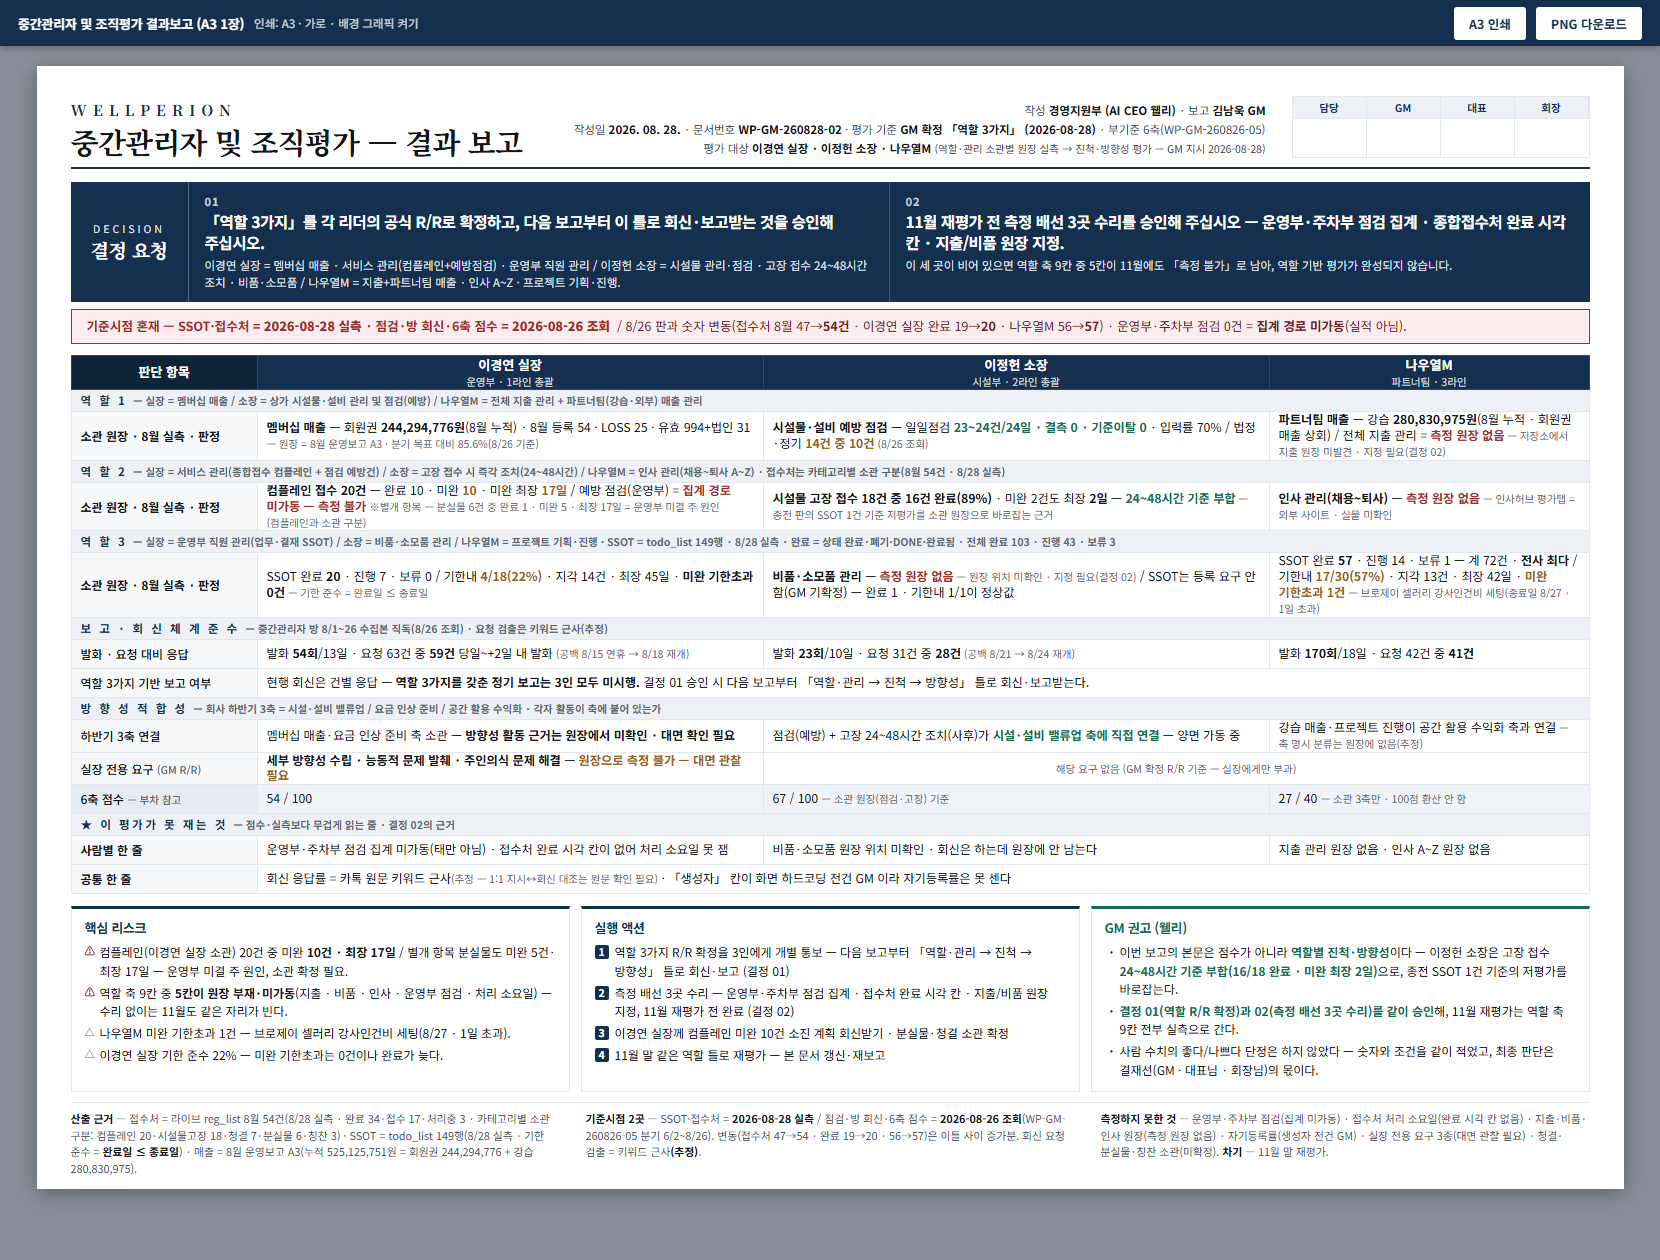
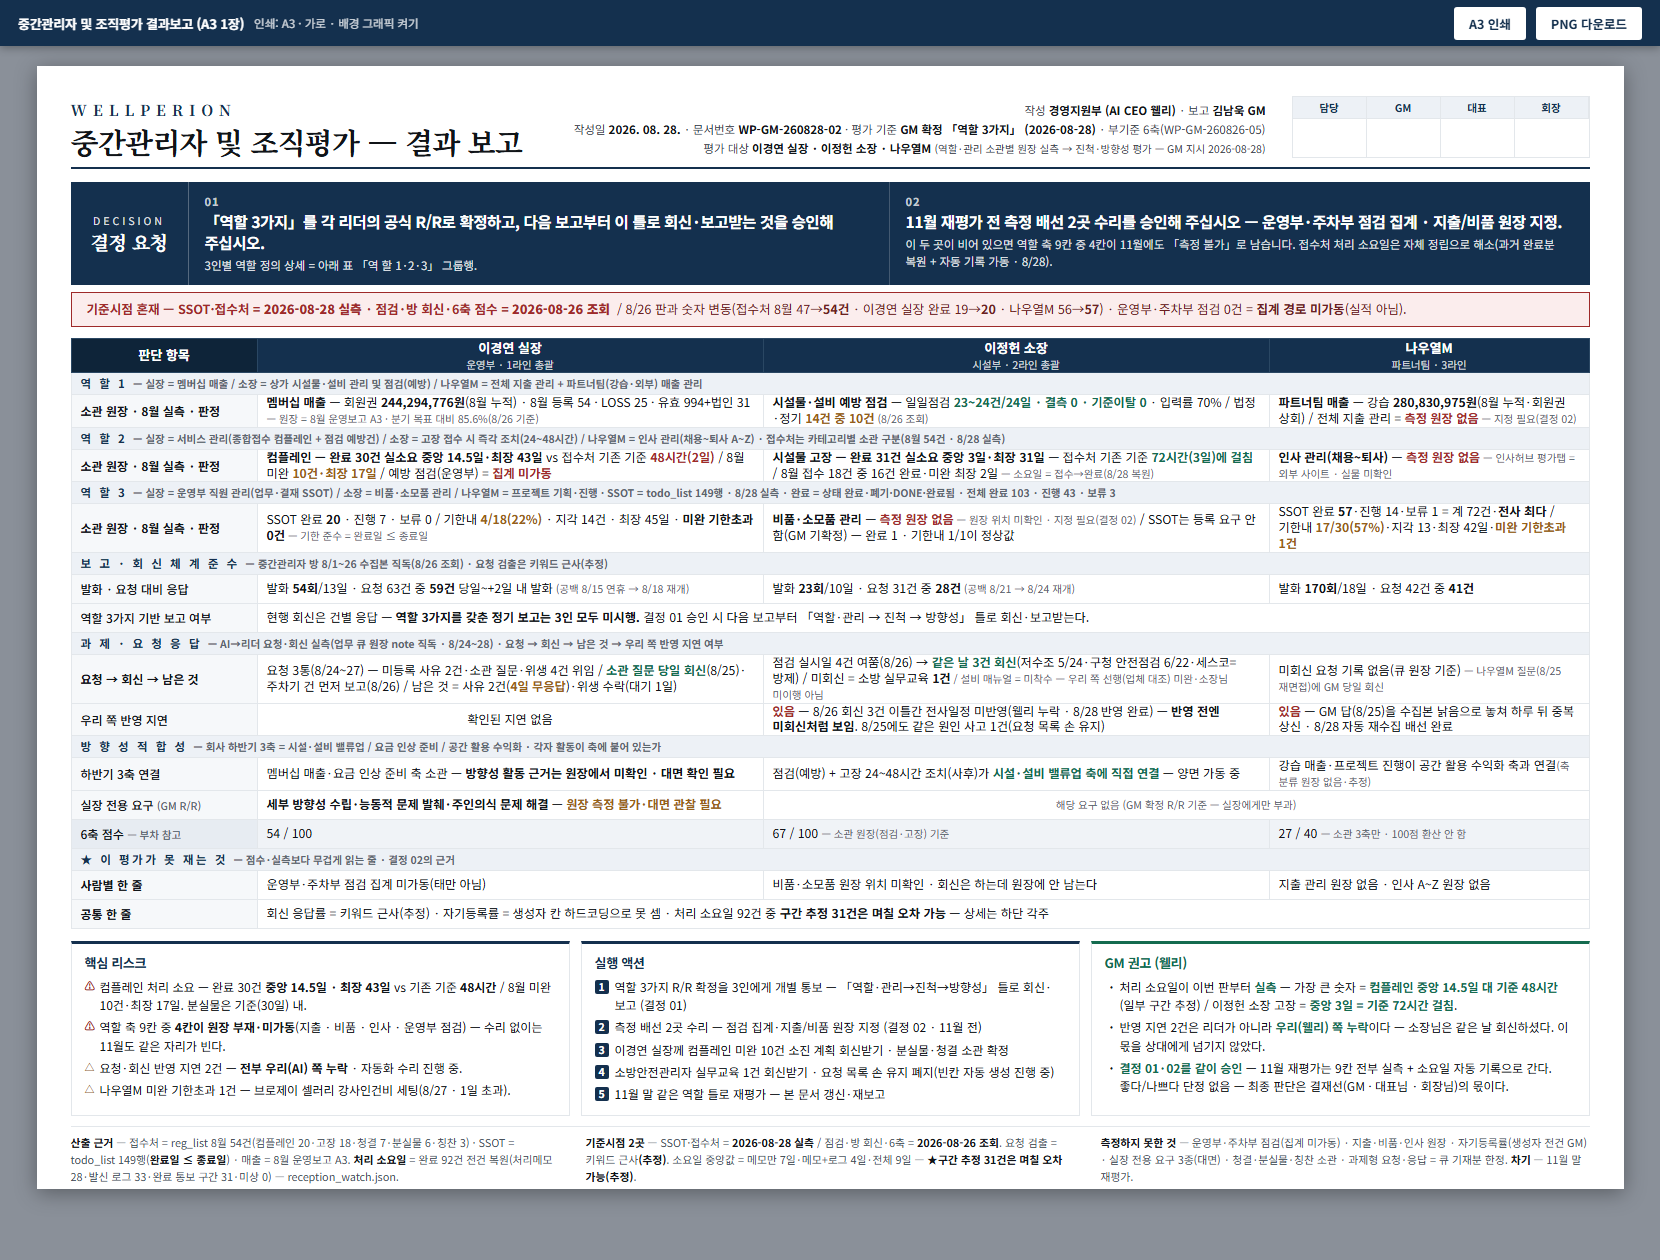
docs(ceo): 리더 평가에 처리 소요일 실측·과제 응답 축 반영 (GM 지시 2026-08-28)

Changed region(s): [[0.0307, 0.1548, 0.9524, 0.9595]]

diff --git a/3. 웰페리온 가이드/reports/260828_중간관리자_조직평가_결과보고_A3.html b/3. 웰페리온 가이드/reports/260828_중간관리자_조직평가_결과보고_A3.html
@@ -150,12 +150,12 @@
       <div class="it">
         <div class="n">01</div>
         <div class="q">「역할 3가지」를 각 리더의 공식 R/R로 확정하고, 다음 보고부터 이 틀로 회신·보고받는 것을 승인해 주십시오.</div>
-        <div class="d">이경연 실장 = 멤버십 매출 · 서비스 관리(컴플레인+예방점검) · 운영부 직원 관리 / 이정헌 소장 = 시설물 관리·점검 · 고장 접수 24~48시간 조치 · 비품·소모품 / 나우열M = 지출+파트너팀 매출 · 인사 A~Z · 프로젝트 기획·진행.</div>
+        <div class="d">3인별 역할 정의 상세 = 아래 표 「역 할 1·2·3」 그룹행.</div>
       </div>
       <div class="it">
         <div class="n">02</div>
-        <div class="q">11월 재평가 전 측정 배선 3곳 수리를 승인해 주십시오 — 운영부·주차부 점검 집계 · 종합접수처 완료 시각 칸 · 지출/비품 원장 지정.</div>
-        <div class="d">이 세 곳이 비어 있으면 역할 축 9칸 중 5칸이 11월에도 「측정 불가」로 남아, 역할 기반 평가가 완성되지 않습니다.</div>
+        <div class="q">11월 재평가 전 측정 배선 2곳 수리를 승인해 주십시오 — 운영부·주차부 점검 집계 · 지출/비품 원장 지정.</div>
+        <div class="d">이 두 곳이 비어 있으면 역할 축 9칸 중 4칸이 11월에도 「측정 불가」로 남습니다. 접수처 처리 소요일은 자체 정립으로 해소(과거 완료분 복원 + 자동 기록 가동 · 8/28).</div>
       </div>
     </div>
   </div>
@@ -183,19 +183,19 @@
       <tr><td class="k strong">소관 원장 · 8월 실측 · 판정</td>
         <td><b>멤버십 매출</b> — 회원권 <b>244,294,776원</b>(8월 누적) · 8월 등록 54 · LOSS 25 · 유효 994+법인 31<span class="est"> — 원장 = 8월 운영보고 A3 · 분기 목표 대비 85.6%(8/26 기준)</span></td>
         <td><b>시설물·설비 예방 점검</b> — 일일점검 <b class="good">23~24건/24일 · 결측 0 · 기준이탈 0</b> · 입력률 70% / 법정·정기 <b class="warn">14건 중 10건</b><span class="est"> (8/26 조회)</span></td>
-        <td><b>파트너팀 매출</b> — 강습 <b>280,830,975원</b>(8월 누적 · 회원권 매출 상회) / 전체 지출 관리 = <b class="bad">측정 원장 없음</b><span class="est"> — 저장소에서 지출 원장 미발견 · 지정 필요(결정 02)</span></td></tr>
+        <td><b>파트너팀 매출</b> — 강습 <b>280,830,975원</b>(8월 누적·회원권 상회) / 전체 지출 관리 = <b class="bad">측정 원장 없음</b><span class="est"> — 지정 필요(결정 02)</span></td></tr>
 
       <tr class="grp"><td colspan="4">역 할 2 <span style="letter-spacing:0" class="est">— 실장 = 서비스 관리(종합접수 컴플레인 + 점검 예방건) / 소장 = 고장 접수 시 즉각 조치(24~48시간) / 나우열M = 인사 관리(채용~퇴사 A~Z) · 접수처는 카테고리별 소관 구분(8월 54건 · 8/28 실측)</span></td></tr>
       <tr><td class="k strong">소관 원장 · 8월 실측 · 판정</td>
-        <td><b>컴플레인 접수 20건</b> — 완료 10 · 미완 <b class="warn">10</b> · 미완 최장 <b class="warn">17일</b> / 예방 점검(운영부) = <b class="bad">집계 경로 미가동 — 측정 불가</b><span class="est"> ※별개 항목 — 분실물 6건 중 완료 1 · 미완 5 · 최장 17일 = 운영부 미결 주 원인(컴플레인과 소관 구분)</span></td>
-        <td><b>시설물 고장 접수 18건 중 16건 완료(89%)</b> · 미완 2건도 최장 <b>2일</b> — <b class="good">24~48시간 기준 부합</b><span class="est"> — 종전 판의 SSOT 1건 기준 저평가를 소관 원장으로 바로잡는 근거</span></td>
+        <td><b>컴플레인 — 완료 30건 실소요 중앙 14.5일·최장 43일</b> vs 접수처 기존 기준 <b class="bad">48시간(2일)</b> / 8월 미완 <b class="warn">10건·최장 17일</b> / 예방 점검(운영부) = <b class="bad">집계 미가동</b></td>
+        <td><b>시설물 고장 — 완료 31건 실소요 중앙 3일·최장 31일</b> — 접수처 기존 기준 <b class="good">72시간(3일)에 걸침</b> / 8월 접수 18건 중 16건 완료·미완 최장 2일<span class="est"> — 소요일 = 접수→완료(8/28 복원)</span></td>
         <td><b>인사 관리(채용~퇴사)</b> — <b class="bad">측정 원장 없음</b><span class="est"> — 인사허브 평가탭 = 외부 사이트 · 실물 미확인</span></td></tr>
 
       <tr class="grp"><td colspan="4">역 할 3 <span style="letter-spacing:0" class="est">— 실장 = 운영부 직원 관리(업무·결재 SSOT) / 소장 = 비품·소모품 관리 / 나우열M = 프로젝트 기획·진행 · SSOT = todo_list 149행 · 8/28 실측 · 완료 = 상태 완료·폐기·DONE·완료됨 · 전체 완료 103 · 진행 43 · 보류 3</span></td></tr>
       <tr><td class="k strong">소관 원장 · 8월 실측 · 판정</td>
         <td>SSOT 완료 <b>20</b> · 진행 7 · 보류 0 / 기한내 <b class="warn">4/18(22%)</b> · 지각 14건 · 최장 45일 · <b>미완 기한초과 0건</b><span class="est"> — 기한 준수 = 완료일 ≤ 종료일</span></td>
         <td><b>비품·소모품 관리</b> — <b class="bad">측정 원장 없음</b><span class="est"> — 원장 위치 미확인 · 지정 필요(결정 02)</span> / SSOT는 등록 요구 안 함(GM 기확정) — 완료 1 · 기한내 1/1이 정상값</td>
-        <td>SSOT 완료 <b>57</b> · 진행 14 · 보류 1 — 계 72건 · <b>전사 최다</b> / 기한내 <b class="warn">17/30(57%)</b> · 지각 13건 · 최장 42일 · <b class="warn">미완 기한초과 1건</b><span class="est"> — 브로제이 셀러리 강사인건비 세팅(종료일 8/27 · 1일 초과)</span></td></tr>
+        <td>SSOT 완료 <b>57</b>·진행 14·보류 1 = 계 72건·<b>전사 최다</b> / 기한내 <b class="warn">17/30(57%)</b>·지각 13·최장 42일·<b class="warn">미완 기한초과 1건</b></td></tr>
 
       <tr class="grp"><td colspan="4">보 고 · 회 신 체 계 준 수 <span style="letter-spacing:0" class="est">— 중간관리자 방 8/1~26 수집본 직독(8/26 조회) · 요청 검출은 키워드 근사(추정)</span></td></tr>
       <tr><td class="k">발화 · 요청 대비 응답</td>
@@ -205,13 +205,23 @@
       <tr><td class="k">역할 3가지 기반 보고 여부</td>
         <td colspan="3">현행 회신은 건별 응답 — <b>역할 3가지를 갖춘 정기 보고는 3인 모두 미시행.</b> 결정 01 승인 시 다음 보고부터 「역할·관리 → 진척 → 방향성」 틀로 회신·보고받는다.</td></tr>
 
+      <tr class="grp"><td colspan="4">과 제 · 요 청 응 답 <span style="letter-spacing:0" class="est">— AI→리더 요청·회신 실측(업무 큐 원장 note 직독 · 8/24~28) · 요청 → 회신 → 남은 것 → 우리 쪽 반영 지연 여부</span></td></tr>
+      <tr><td class="k strong">요청 → 회신 → 남은 것</td>
+        <td>요청 3통(8/24~27) — 미등록 사유 2건·소관 질문·위생 4건 위임 / <b class="good">소관 질문 당일 회신</b>(8/25)·주차기 건 먼저 보고(8/26) / 남은 것 = 사유 2건(<b class="warn">4일 무응답</b>)·위생 수락(대기 1일)</td>
+        <td>점검 실시일 4건 여쭘(8/26) → <b class="good">같은 날 3건 회신</b>(저수조 5/24·구청 안전점검 6/22·세스코=방제) / 미회신 = 소방 실무교육 <b>1건</b><span class="est"> / 설비 매뉴얼 = 미착수 — 우리 쪽 선행(업체 대조) 미완·소장님 미이행 아님</span></td>
+        <td>미회신 요청 기록 없음(큐 원장 기준)<span class="est"> — 나우열M 질문(8/25 재면접)에 GM 당일 회신</span></td></tr>
+      <tr><td class="k">우리 쪽 반영 지연</td>
+        <td class="ctr">확인된 지연 없음</td>
+        <td><b class="bad">있음</b> — 8/26 회신 3건 이틀간 전사일정 미반영(웰리 누락 · 8/28 반영 완료) — <b>반영 전엔 미회신처럼 보임</b>. 8/25에도 같은 원인 사고 1건(요청 목록 손 유지)</td>
+        <td><b class="bad">있음</b> — GM 답(8/25)을 수집본 낡음으로 놓쳐 하루 뒤 중복 상신 · 8/28 자동 재수집 배선 완료</td></tr>
+
       <tr class="grp"><td colspan="4">방 향 성 적 합 성 <span style="letter-spacing:0" class="est">— 회사 하반기 3축 = 시설·설비 밸류업 / 요금 인상 준비 / 공간 활용 수익화 · 각자 활동이 축에 붙어 있는가</span></td></tr>
       <tr><td class="k">하반기 3축 연결</td>
         <td>멤버십 매출·요금 인상 준비 축 소관 — <b>방향성 활동 근거는 원장에서 미확인 · 대면 확인 필요</b></td>
         <td>점검(예방) + 고장 24~48시간 조치(사후)가 <b class="good">시설·설비 밸류업 축에 직접 연결</b> — 양면 가동 중</td>
-        <td>강습 매출·프로젝트 진행이 공간 활용 수익화 축과 연결<span class="est"> — 축 명시 분류는 원장에 없음(추정)</span></td></tr>
+        <td>강습 매출·프로젝트 진행이 공간 활용 수익화 축과 연결<span class="est">(축 분류 원장 없음·추정)</span></td></tr>
       <tr><td class="k">실장 전용 요구 <span class="est">(GM R/R)</span></td>
-        <td><b>세부 방향성 수립 · 능동적 문제 발췌 · 주인의식 문제 해결</b> — <b class="warn">원장으로 측정 불가 — 대면 관찰 필요</b></td>
+        <td><b>세부 방향성 수립·능동적 문제 발췌·주인의식 문제 해결</b> — <b class="warn">원장 측정 불가·대면 관찰 필요</b></td>
         <td colspan="2" class="ctr est">해당 요구 없음 (GM 확정 R/R 기준 — 실장에게만 부과)</td></tr>
 
       <tr class="sum"><td class="k">6축 점수 <span class="est">— 부차 참고</span></td>
@@ -221,11 +231,11 @@
 
       <tr class="grp"><td colspan="4">★ 이 평가가 못 재는 것 <span style="letter-spacing:0" class="est">— 점수·실측보다 무겁게 읽는 줄 · 결정 02의 근거</span></td></tr>
       <tr><td class="k strong">사람별 한 줄</td>
-        <td>운영부·주차부 점검 집계 미가동(태만 아님) · 접수처 완료 시각 칸이 없어 처리 소요일 못 잼</td>
+        <td>운영부·주차부 점검 집계 미가동(태만 아님)</td>
         <td>비품·소모품 원장 위치 미확인 · 회신은 하는데 원장에 안 남는다</td>
         <td>지출 관리 원장 없음 · 인사 A~Z 원장 없음</td></tr>
       <tr><td class="k strong">공통 한 줄</td>
-        <td colspan="3">회신 응답률 = 카톡 원문 키워드 근사<span class="est">(추정 — 1:1 지시↔회신 대조는 원문 확인 필요)</span> · 「생성자」 칸이 화면 하드코딩 전건 GM 이라 자기등록률은 못 센다</td></tr>
+        <td colspan="3">회신 응답률 = 키워드 근사(추정) · 자기등록률 = 생성자 칸 하드코딩으로 못 셈 · 처리 소요일 92건 중 <b>구간 추정 31건은 며칠 오차 가능</b> — 상세는 하단 각주</td></tr>
     </tbody>
   </table>
   </div>
@@ -235,36 +245,37 @@
     <div class="box">
       <h3>핵심 리스크</h3>
       <ul>
-        <li class="r1">컴플레인(이경연 실장 소관) 20건 중 미완 <b>10건 · 최장 17일</b> / 별개 항목 분실물도 미완 5건·최장 17일 — 운영부 미결 주 원인, 소관 확정 필요.</li>
-        <li class="r1">역할 축 9칸 중 <b>5칸이 원장 부재·미가동</b>(지출 · 비품 · 인사 · 운영부 점검 · 처리 소요일) — 수리 없이는 11월도 같은 자리가 빈다.</li>
+        <li class="r1">컴플레인 처리 소요 — 완료 30건 <b>중앙 14.5일 · 최장 43일</b> vs 기존 기준 <b>48시간</b> / 8월 미완 10건·최장 17일. 분실물은 기준(30일) 내.</li>
+        <li class="r1">역할 축 9칸 중 <b>4칸이 원장 부재·미가동</b>(지출 · 비품 · 인사 · 운영부 점검) — 수리 없이는 11월도 같은 자리가 빈다.</li>
+        <li class="r2">요청·회신 반영 지연 2건 — <b>전부 우리(AI) 쪽 누락</b> · 자동화 수리 진행 중.</li>
         <li class="r2">나우열M 미완 기한초과 1건 — 브로제이 셀러리 강사인건비 세팅(8/27 · 1일 초과).</li>
-        <li class="r2">이경연 실장 기한 준수 22% — 미완 기한초과는 0건이나 완료가 늦다.</li>
       </ul>
     </div>
     <div class="box">
       <h3>실행 액션</h3>
       <ul class="ord">
-        <li class="n">역할 3가지 R/R 확정을 3인에게 개별 통보 — 다음 보고부터 「역할·관리 → 진척 → 방향성」 틀로 회신·보고 (결정 01)</li>
-        <li class="n">측정 배선 3곳 수리 — 운영부·주차부 점검 집계 · 접수처 완료 시각 칸 · 지출/비품 원장 지정, 11월 재평가 전 완료 (결정 02)</li>
+        <li class="n">역할 3가지 R/R 확정을 3인에게 개별 통보 — 「역할·관리→진척→방향성」 틀로 회신·보고 (결정 01)</li>
+        <li class="n">측정 배선 2곳 수리 — 점검 집계·지출/비품 원장 지정 (결정 02 · 11월 전)</li>
         <li class="n">이경연 실장께 컴플레인 미완 10건 소진 계획 회신받기 · 분실물·청결 소관 확정</li>
+        <li class="n">소방안전관리자 실무교육 1건 회신받기 · 요청 목록 손 유지 폐지(빈칸 자동 생성 진행 중)</li>
         <li class="n">11월 말 같은 역할 틀로 재평가 — 본 문서 갱신·재보고</li>
       </ul>
     </div>
     <div class="box rec">
       <h3>GM 권고 (웰리)</h3>
       <ul>
-        <li>이번 보고의 본문은 점수가 아니라 <b>역할별 진척·방향성</b>이다 — 이정헌 소장은 고장 접수 <b>24~48시간 기준 부합(16/18 완료 · 미완 최장 2일)</b>으로, 종전 SSOT 1건 기준의 저평가를 바로잡는다.</li>
-        <li><b>결정 01(역할 R/R 확정)과 02(측정 배선 3곳 수리)를 같이 승인</b>해, 11월 재평가는 역할 축 9칸 전부 실측으로 간다.</li>
-        <li>사람 수치의 좋다/나쁘다 단정은 하지 않았다 — 숫자와 조건을 같이 적었고, 최종 판단은 결재선(GM · 대표님 · 회장님)의 몫이다.</li>
+        <li>처리 소요일이 이번 판부터 <b>실측</b> — 가장 큰 숫자 = <b>컴플레인 중앙 14.5일 대 기준 48시간</b>(일부 구간 추정) / 이정헌 소장 고장 = <b>중앙 3일 = 기준 72시간 걸침</b>.</li>
+        <li>반영 지연 2건은 리더가 아니라 <b>우리(웰리) 쪽 누락</b>이다 — 소장님은 같은 날 회신하셨다. 이 몫을 상대에게 넘기지 않았다.</li>
+        <li><b>결정 01·02를 같이 승인</b> — 11월 재평가는 9칸 전부 실측 + 소요일 자동 기록으로 간다. 좋다/나쁘다 단정 없음 — 최종 판단은 결재선(GM · 대표님 · 회장님)의 몫이다.</li>
       </ul>
     </div>
   </div>
 
   <!-- ⑤ 각주 -->
   <div class="foot">
-    <div><b>산출 근거</b> — 접수처 = 라이브 reg_list 8월 54건(8/28 실측 · 완료 34·접수 17·처리중 3 · 카테고리별 소관 구분: 컴플레인 20·시설물고장 18·청결 7·분실물 6·칭찬 3) · SSOT = todo_list 149행(8/28 실측 · 기한 준수 = <b>완료일 ≤ 종료일</b>) · 매출 = 8월 운영보고 A3(누적 525,125,751원 = 회원권 244,294,776 + 강습 280,830,975).</div>
-    <div><b>기준시점 2곳</b> — SSOT·접수처 = <b>2026-08-28 실측</b> / 점검·방 회신·6축 점수 = <b>2026-08-26 조회</b>(WP-GM-260826-05 분기 6/2~8/26). 변동(접수처 47→54 · 완료 19→20 · 56→57)은 이틀 사이 증가분. 회신 요청 검출 = 키워드 근사<b>(추정)</b>.</div>
-    <div><b>측정하지 못한 것</b> — 운영부·주차부 점검(집계 미가동) · 접수처 처리 소요일(완료 시각 칸 없음) · 지출·비품·인사 원장(측정 원장 없음) · 자기등록률(생성자 전건 GM) · 실장 전용 요구 3종(대면 관찰 필요) · 청결·분실물·칭찬 소관(미확정). <b>차기</b> — 11월 말 재평가.</div>
+    <div><b>산출 근거</b> — 접수처 = reg_list 8월 54건(컴플레인 20·고장 18·청결 7·분실물 6·칭찬 3) · SSOT = todo_list 149행(<b>완료일 ≤ 종료일</b>) · 매출 = 8월 운영보고 A3. <b>처리 소요일</b> = 완료 92건 전건 복원(처리메모 28·발신 로그 33·완료 통보 구간 31·미상 0) — reception_watch.json.</div>
+    <div><b>기준시점 2곳</b> — SSOT·접수처 = <b>2026-08-28 실측</b> / 점검·방 회신·6축 = <b>2026-08-26 조회</b>. 요청 검출 = 키워드 근사<b>(추정)</b>. 소요일 중앙값 = 메모만 7일·메모+로그 4일·전체 9일 — <b>★구간 추정 31건은 며칠 오차 가능(추정)</b>.</div>
+    <div><b>측정하지 못한 것</b> — 운영부·주차부 점검(집계 미가동) · 지출·비품·인사 원장 · 자기등록률(생성자 전건 GM) · 실장 전용 요구 3종(대면) · 청결·분실물·칭찬 소관 · 과제형 요청·응답 = 큐 기재분 한정. <b>차기</b> — 11월 말 재평가.</div>
   </div>
 
 </div>
